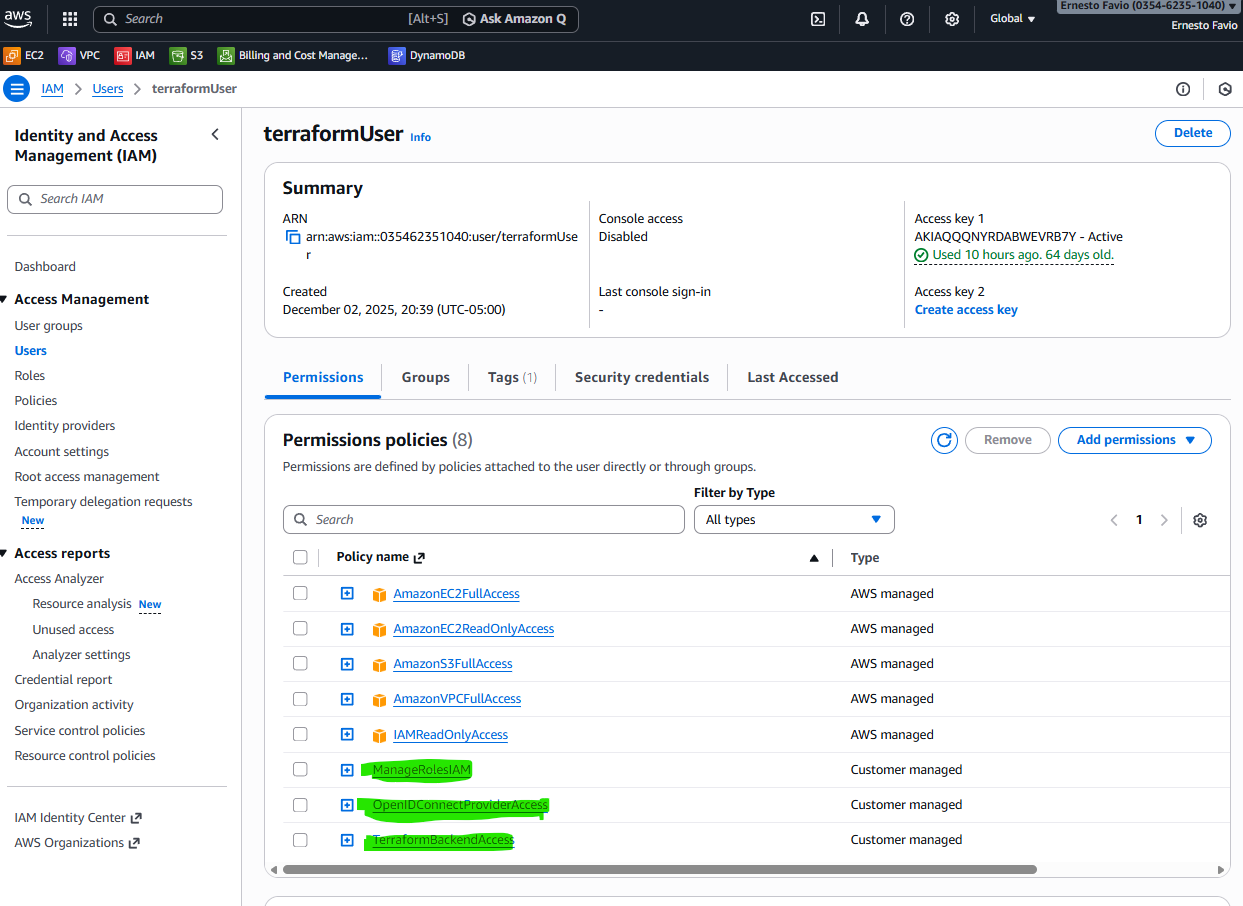
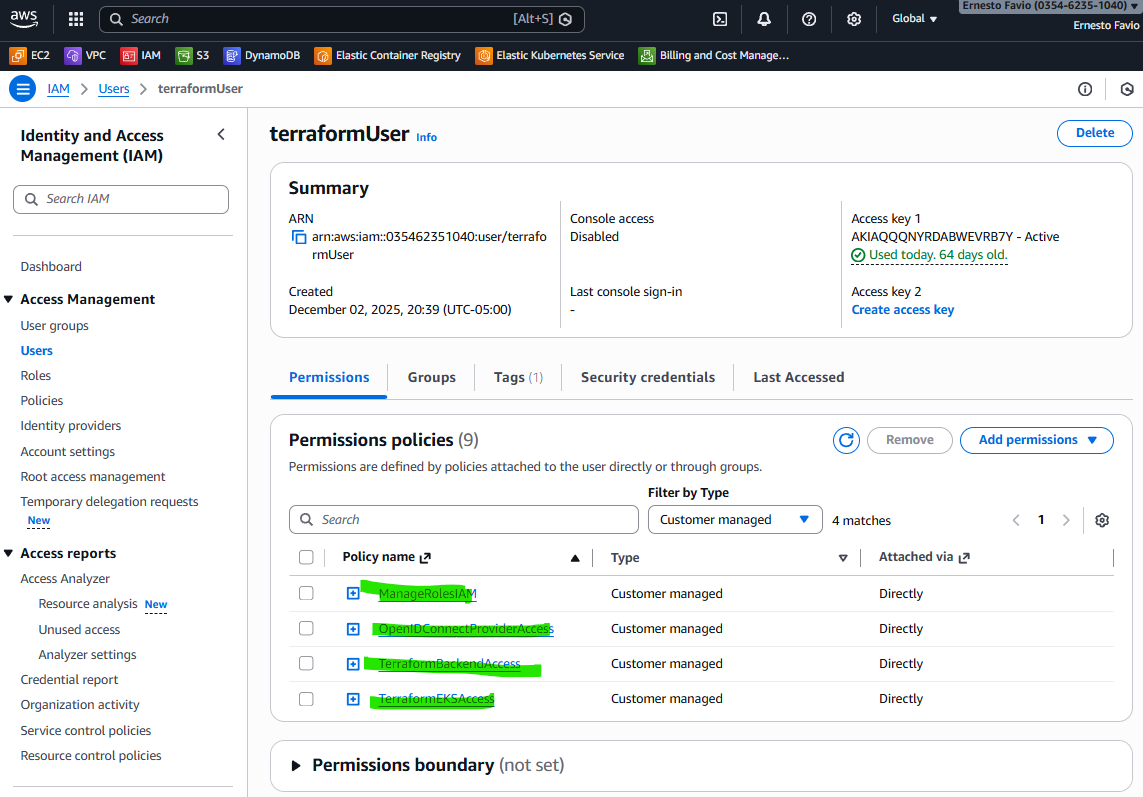
Correccion auth kubernetes a EKS desde laptop

diff --git a/README.md b/README.md
@@ -150,11 +150,50 @@ En mi caso, la policy se configura de esta manera:
 "Resource": "arn:aws:dynamodb:us-east-1:035462351040:table/tfstate-locks-devops"
 ```
 
-Despues de crear estas 3 Policy en IAM, las enlazamos a nuestro usuario, en mi caso es el usuario `terraformUser` y ya se puede ejecutar los scripts del siguiente apartado. 
+### 2.4 Policy: `TerraformEKSAccess`
+Esta policy hace lo siguiente:
 
-![Usuario Terraform con 2 Policies](./assets/img/2.png)
+- **eks:ListClusters** → el usuario puede listar todos los clusters EKS en la cuenta.
+- **eks:DescribeCluster** → el usuario puede obtener los detalles de un cluster específico (endpoint, OIDC issuer, configuración, etc.).
 
-### 3. Ejecutar el script de bootstrap
+```json
+{
+    "Version": "2012-10-17",
+    "Statement": [
+        {
+            "Sid": "EKSClusterAccess",
+            "Effect": "Allow",
+            "Action": [
+                "eks:DescribeCluster",
+                "eks:ListClusters"
+            ],
+            "Resource": "*"
+        }
+    ]
+}
+```
+Ojo: No da permisos para crear pods, deployments, services, etc. → eso lo maneja Kubernetes RBAC (ej. system:masters), ver el modulo eks el archivo main.tf.
+
+FInalmente, despues de crear estas 4 Policy en IAM, las enlazamos a nuestro usuario, en mi caso es el usuario `terraformUser` y ya se puede ejecutar los scripts del siguiente apartado. 
+
+![Usuario Terraform con 4 Policies](./assets/img/2.png)
+
+### 3. Ejecutar el script de bootstrap_backend.sh
+
+Este script es un Bootstrap de Backend para Terraform. Su función es preparar automáticamente "la casa" donde Terraform guardará su archivo de estado (.tfstate) antes de lanzar cualquier infraestructura.
+
+```bash
+chmod +x scripts/bootstrap_backend.sh
+scripts/bootstrap_backend.sh <region> <bucket_name> <dynamodb_table>
+```
+Ejemplo:
+
+```bash
+./scripts/bootstrap_backend.sh us-east-1 tfstate-devops-henry-1720 tfstate-locks-devops
+```
+En donde <region> es la región de AWS en la cual estamos trabajando, <bucket_name> es el nombre completo del bucket a crear, y <dynamodb_table> es el nombre de la tabla de dynamodb.
+
+### 4. Ejecutar el script de bootstrap
 Con las credenciales del usuario `terraformUser` configuradas en nuestro entorno local o de desarrollo (~/.aws/credentials o variables de entorno), ejecuta en tu terminal:
 
 ```bash
@@ -183,7 +222,6 @@ DONE.
 Set this GitHub secret in infra-devops-aws repo:
 AWS_ROLE_TO_ASSUME = arn:aws:iam::035462351040:role/gh-oidc-terraform-infra-devops-aws
 ```
-
 
 #### ¿Qué hace el script?
 - Crea/valida el OIDC Provider de GitHub (token.actions.githubusercontent.com).
